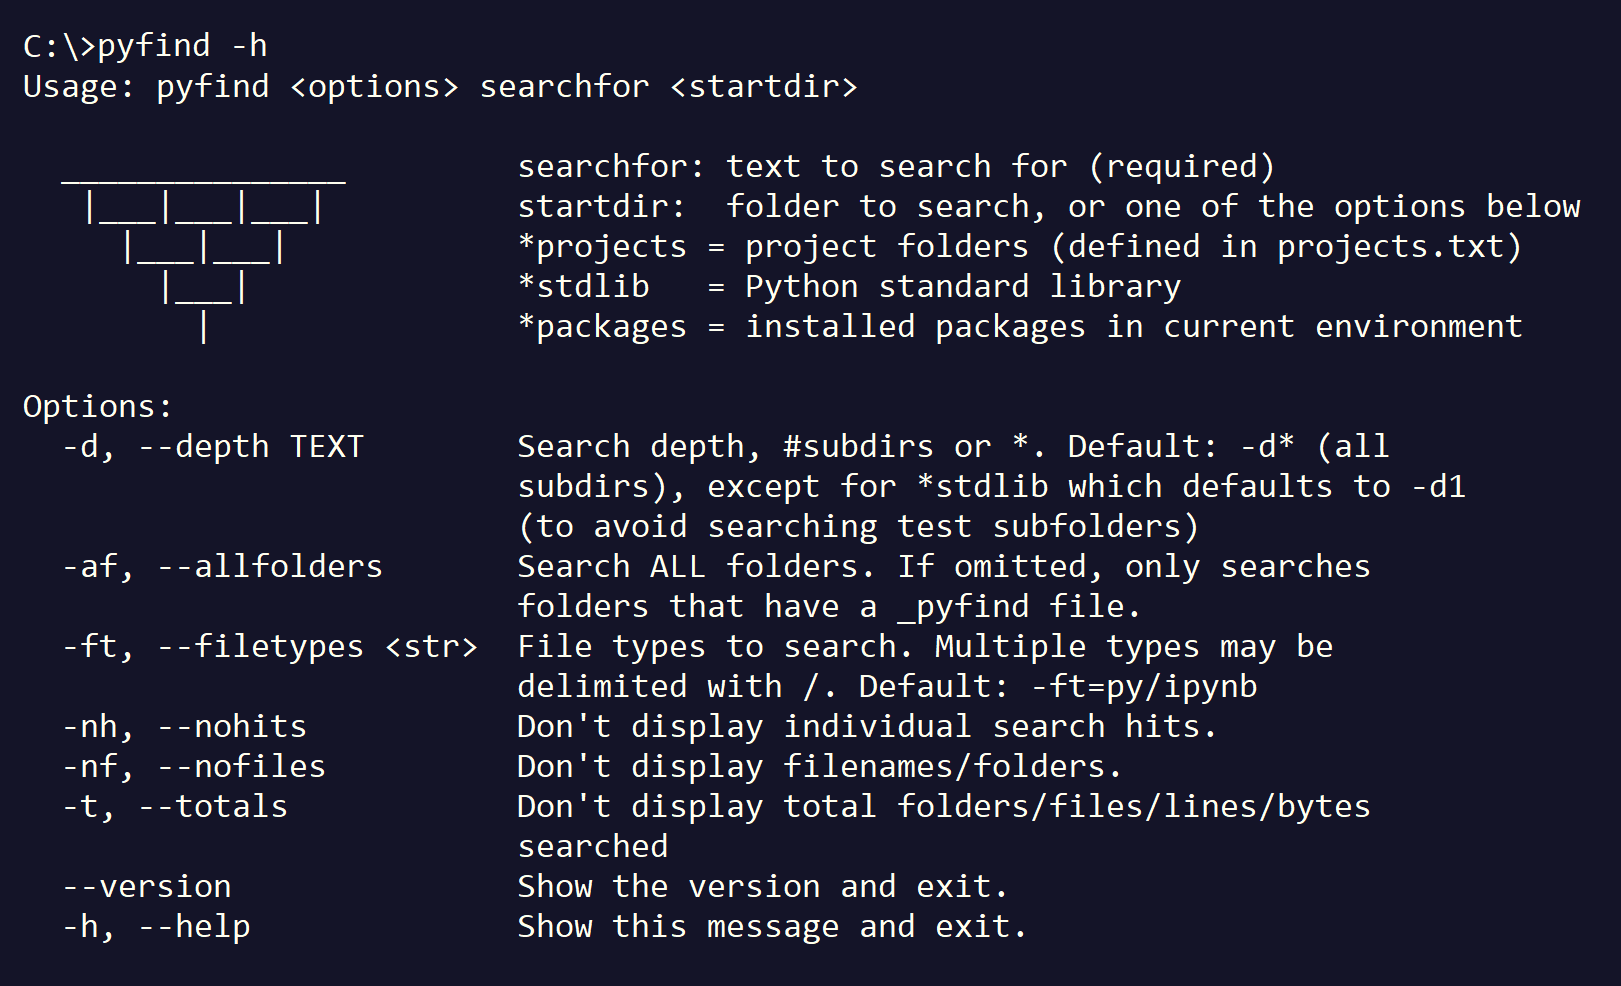
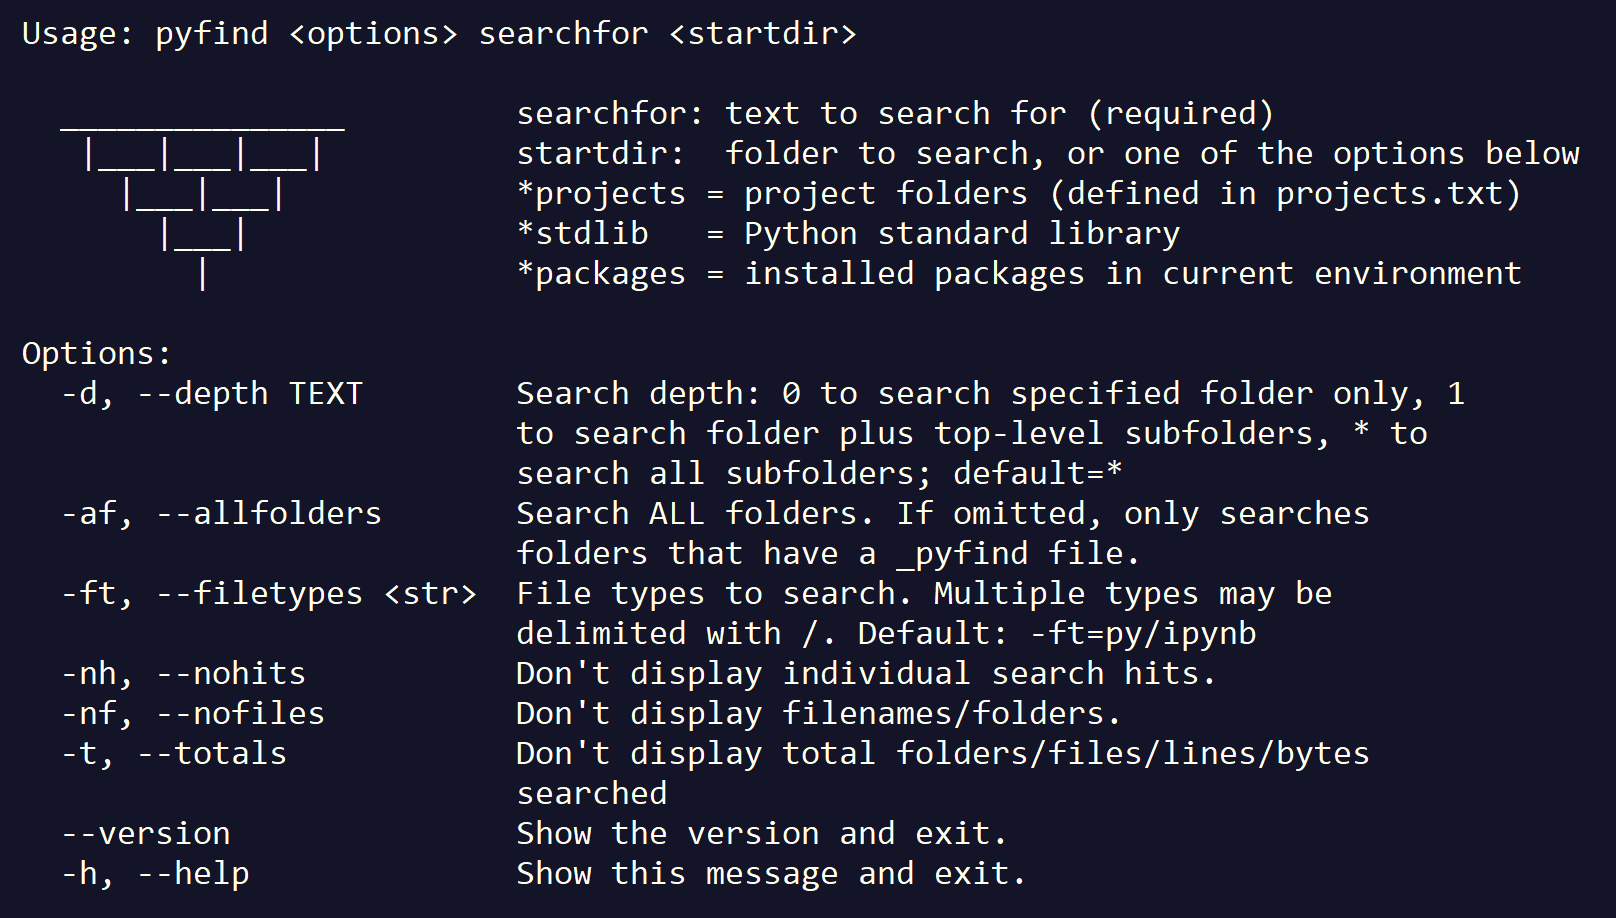
update README and screenshots

diff --git a/pyfind.py b/pyfind.py
@@ -19,7 +19,7 @@ CONTEXT_SETTINGS = dict(help_option_names=["-h", "--help"])
     "-d",
     "--depth",
     default="*",
-    help="Search depth, #subdirs or *. " + "Default: -d* (all subdirs), except for *stdlib which defaults to -d1 (to avoid searching test subfolders)",
+    help="Search depth: 0 to search specified folder only, 1 to search folder plus top-level subfolders, * to search all subfolders; default=*",
 )
 @click.option(
     "-af",
@@ -199,7 +199,7 @@ def print_summary(hitlist):
         len(hitlist), len(filenames), len(folders)
     )
 
-    click.echo(click.style(summary.rjust(75), fg="cyan"), nl=True)
+    click.echo(click.style(summary.rjust(75), fg="green"), nl=True)
 
 
 def search_file(filename, searchfor, root_dir):

diff --git a/README.md b/README.md
@@ -23,35 +23,40 @@ Pyfind should work with any Python 3 version, and ituses the [Click](http://clic
 
 After installation, create a ```projects.txt``` file in the pyfind folder that contains all of the local folders/paths you'd like to include in the default search, one on each line.
 
-After it's installed, you can use ```pyfind``` at a command prompt. For example, to display the help screen:
+After it's installed, you can use ```pyfind``` at a command prompt. For example, use ```pyfind -h``` to display the help screen:
 
-![help screen](https://raw.githubusercontent.com/dmahugh/pyfind/master/images/helpscreen.png)
+![help screen](images/helpscreen.png)
 
 ## Usage examples
 
-By default, pyfind searches all .py files in the current folder. For example:
+In addition to the default search scope (all project folders defined in the ```projects.txt``` file), three other usages are supported as covered below.
 
-![simple search](https://raw.githubusercontent.com/dmahugh/pyfind/master/images/simplesearch.png)
+### explicitly specify a search folder
 
-Note that each filename is followed by the hits within that file, and a summary at the end shows the total number of hits, files and folders. The *-nh* or *--nohits* option can be used to see a summary of the matching files only:
+You can explicitly specify a search folder on the command line, to search files in that folder as well as its subfolders.
 
-![nohits](https://raw.githubusercontent.com/dmahugh/pyfind/master/images/nohits.png)
+The ```-d```/```--depth``` command line option controls the depth of searching subfolders. For example, you can use ```-d0``` to avoid searching subfolders (which may contain tests, etc.).
 
-To search subfolders, add the *-s* or *--subdirs* option. Hits are grouped by folder:
+The ```-af```/```--allfolders``` command line option controls which folders are searched. By default, pyfind only searches folders that contain a file named ```_pyfind```. (The content of the file doesn't matter.) Use the ```-af``` option to override this behavior.
 
-![subdirs](https://raw.githubusercontent.com/dmahugh/pyfind/master/images/subdirs.png)
+### searching the Python standard library
 
-By default, pyfind only searches .py files. Use the *-ft* or *--filetypes* option to specify other file types to be searched. You can specify multiple file types by separating the extensions with /:
+The ```*stdlib``` option for the starting folder is a shortcut for searching the Python standard library source code for the currently active Python interpreter. For example, here's a search for the use of ```joinpath``` in the standard library of Python 3.6.8:
 
-![filetypes](https://raw.githubusercontent.com/dmahugh/pyfind/master/images/filetypes.png)
+![*stdlib search](images/joinpath.png)
 
-By default, pyfind only searches folders that contain a file named *_pyfind*. I use this option to limit searches to my own code &mdash; there's a *_pyfind* file in each folder where my code resides. You can force pyfind to search all folders with the *-af* or *--allfolders* option:
+### searching installed packages
 
-![allfolders](https://raw.githubusercontent.com/dmahugh/pyfind/master/images/allfolders.png)
-### special cases
-Pyfind supports two special cases for the _startdir_ argument that specifies the root folder to be searched:
+The ```*packages``` option for the starting folder is a shortcut for searching across the Python source code for all packages installed in the current environment. For example, here's a search across over 2 million lines of code in my current bloated Python environment for use of the ```post``` method in the ```Requests``` package:
 
-* _*packages_ = search the source code of all installed Python packages
-* _*stdlib_ = search the source code of the Python standard library
+![*packages search](images/packages.png)
 
-Note that these options work with the currently active virtual environment, if any.
+# Contributing
+Pyfind is a work in progress &mdash; pull requests, feature requests and issues welcome.
+
+I've implemented the functionality I find useful, but I'm interested in knowing what other types of functionality may be useful to others. Please log an [issue](https://github.com/dmahugh/pyfind/issues) if you have a suggestion. Thanks!
+
+# License
+Pyfind is licensed under the [MIT License](https://github.com/dmahugh/pyfind/blob/master/LICENSE).
+
+Copyright &copy; 2016 by Doug Mahugh
